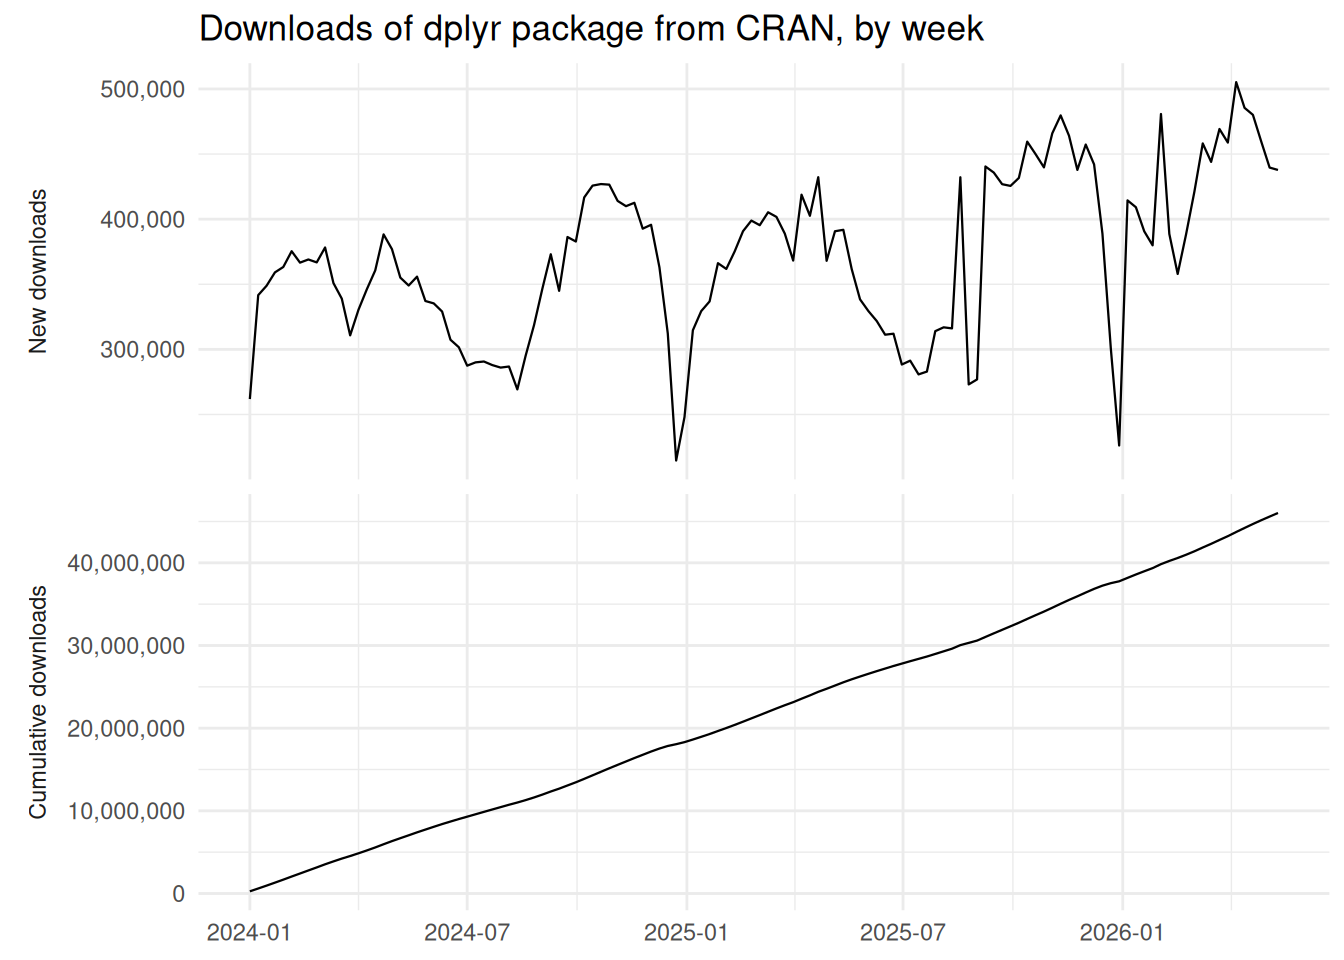
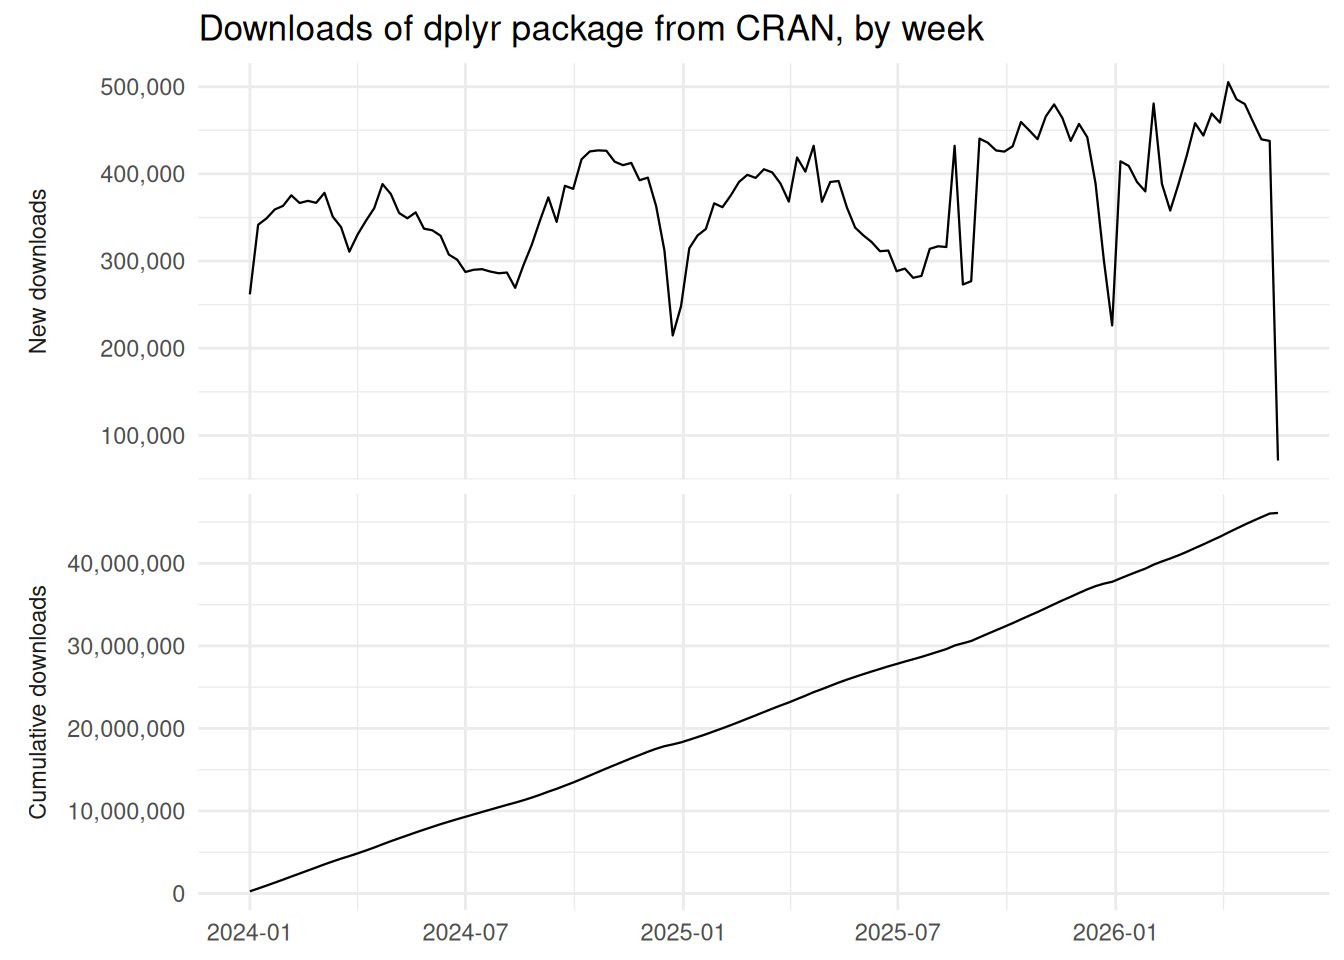
Deploy preview for PR 2 🛫

diff --git a/pr-preview/pr-2/NEWS.html b/pr-preview/pr-2/NEWS.html
@@ -377,7 +377,7 @@ ul.task-list li input[type="checkbox"] {
 <h1>gdl 0.0.0.9001</h1>
 <ul>
 <li>Fixed gh-pages site root returning 404 before the first stable release: dev deploys now drop a small <code>index.html</code> redirect at the root pointing to <code>/dev/</code>.</li>
-<li><code>graph_downloads()</code> examples now render output in CI doc builds (altdoc) while skipping in offline R CMD check (<code>@examplesIf interactive() || CI</code>).</li>
+<li><code>graph_downloads()</code> examples now render output in altdoc docs builds while skipping in offline R CMD check. Gated on a docs-only env var (<code>@examplesIf interactive() || nzchar(Sys.getenv("GDL_DOCS_BUILD"))</code>), which the docs workflow sets but R-CMD-check does not.</li>
 <li><code>.fetch_cran_downloads()</code> now accepts a <code>start</code> hint so only the requested date range is fetched from CRAN, avoiding a full-history download when a bounded <code>start</code> date is supplied.</li>
 </ul>
 </section>